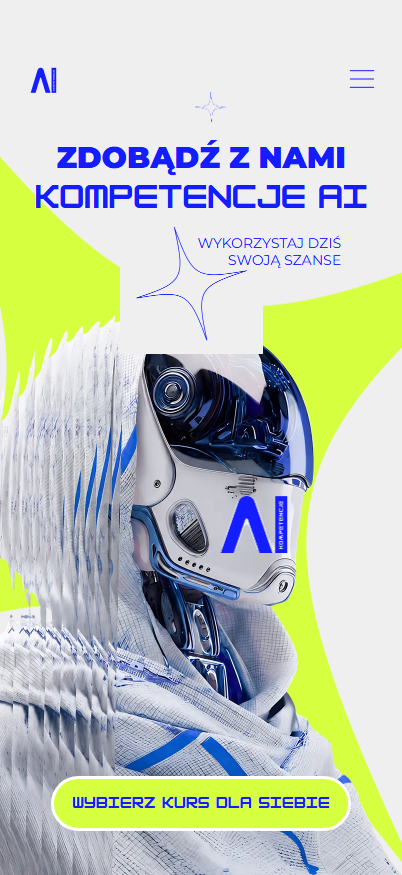
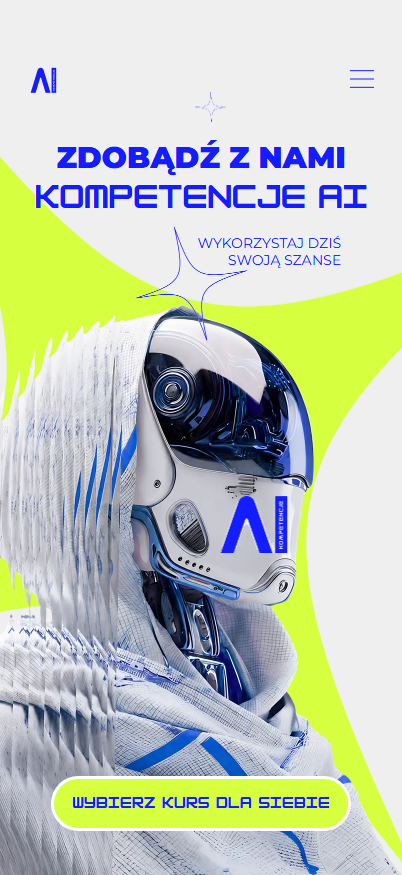
fix: filtrowanie wypieczonego tla strony ze wszystkich PNG assetow hero
Wszystkie eksporty PNG node'ow mialy zaszyte #EFEFEF (niewidoczne na szarej
stronie, ale gwiazda nad robotem na mobile pokazywala szary prostokat).
Mobile diff: 4.6% -> 3.07%, desktop stabilnie 1.73%.

Changed region(s): [[0.2985, 0.3086, 0.6567, 0.432]]

diff --git a/komp-ai/src/components/home/HeroSection.tsx b/komp-ai/src/components/home/HeroSection.tsx
@@ -100,7 +100,7 @@ function HeroDesktop({ hero, nav }: { hero: HomeHero; nav: NavLink[] }) {
         <div className="relative aspect-[1440/833] overflow-hidden bg-page">
           {/* gwiazda outline ZA robotem — tło zdjęcia robota ją przykrywa */}
           <img
-            src="/assets/star-outline-trim.png"
+            src="/assets/star-outline-f.png"
             alt=""
             className="absolute"
             style={{ left: c(G.starRobot.left), top: c(G.starRobot.top), width: c(G.starRobot.w), height: c(G.starRobot.h) }}
@@ -119,7 +119,7 @@ function HeroDesktop({ hero, nav }: { hero: HomeHero; nav: NavLink[] }) {
           />
           {/* limonkowa gwiazda przy prawej krawędzi */}
           <img
-            src="/assets/lime-star-trim.png"
+            src="/assets/lime-star-f.png"
             alt=""
             className="absolute"
             style={{ left: c(G.limeStarTR.left), top: c(G.limeStarTR.top), width: c(G.limeStarTR.w), height: c(G.limeStarTR.h) }}
@@ -127,7 +127,7 @@ function HeroDesktop({ hero, nav }: { hero: HomeHero; nav: NavLink[] }) {
           />
           {/* mała gwiazda outline w prawym górnym rogu */}
           <img
-            src="/assets/star-outline-sm-trim.png"
+            src="/assets/star-outline-sm-f.png"
             alt=""
             className="absolute"
             style={{ left: c(G.starTRsmall.left), top: c(G.starTRsmall.top), width: c(G.starTRsmall.w), height: c(G.starTRsmall.h) }}
@@ -135,7 +135,7 @@ function HeroDesktop({ hero, nav }: { hero: HomeHero; nav: NavLink[] }) {
           />
           {/* limonkowy swoosh (STAR_ARROW) */}
           <img
-            src="/assets/star-arrow-trim.png"
+            src="/assets/star-arrow-f.png"
             alt=""
             className="absolute"
             style={{ left: c(G.swoosh.left), top: c(G.swoosh.top), width: c(G.swoosh.w), height: c(G.swoosh.h) }}
@@ -251,7 +251,7 @@ function HeroMobile({ hero }: { hero: HomeHero }) {
         <div className="relative aspect-[402/875] overflow-hidden bg-page">
           {/* limonkowy blob tła */}
           <img
-            src="/assets/m-bg-blob-2x.png"
+            src="/assets/m-bg-blob-f.png"
             alt=""
             className="absolute"
             style={{ left: cm(GM.blob.left), top: cm(GM.blob.top), width: cm(GM.blob.w), height: cm(GM.blob.h) }}
@@ -264,7 +264,7 @@ function HeroMobile({ hero }: { hero: HomeHero }) {
               className="absolute"
               style={{ left: cm(GM.logo.left), top: cm(GM.logo.top), width: cm(GM.logo.w), height: cm(GM.logo.h) }}
             >
-              <img src="/assets/m-logo-2x.png" alt="Kompetencje.ai" className="h-full w-full" />
+              <img src="/assets/m-logo-f.png" alt="Kompetencje.ai" className="h-full w-full" />
             </Link>
             <button
               type="button"
@@ -273,12 +273,12 @@ function HeroMobile({ hero }: { hero: HomeHero }) {
               style={{ left: cm(GM.burger.left), top: cm(GM.burger.top), width: cm(GM.burger.w), height: cm(GM.burger.h) }}
               data-node-id="375:1749"
             >
-              <img src="/assets/m-burger-2x.png" alt="" className="h-full w-full" />
+              <img src="/assets/m-burger-f.png" alt="" className="h-full w-full" />
             </button>
           </header>
           {/* mała gwiazdka nad headline */}
           <img
-            src="/assets/m-star-sm-2x.png"
+            src="/assets/m-star-sm-filtered.png"
             alt=""
             className="absolute"
             style={{ left: cm(GM.starSm.left), top: cm(GM.starSm.top), width: cm(GM.starSm.w), height: cm(GM.starSm.h) }}
@@ -313,7 +313,7 @@ function HeroMobile({ hero }: { hero: HomeHero }) {
           />
           {/* gwiazda outline NAD robotem (mobile) */}
           <img
-            src="/assets/m-star-outline-2x.png"
+            src="/assets/m-star-outline-filtered.png"
             alt=""
             className="absolute"
             style={{ left: cm(GM.starOutline.left), top: cm(GM.starOutline.top), width: cm(GM.starOutline.w), height: cm(GM.starOutline.h) }}
